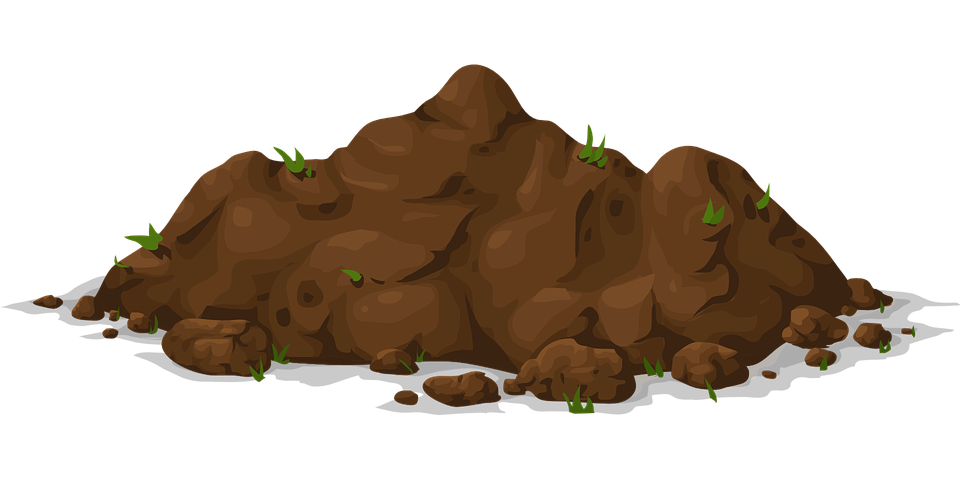
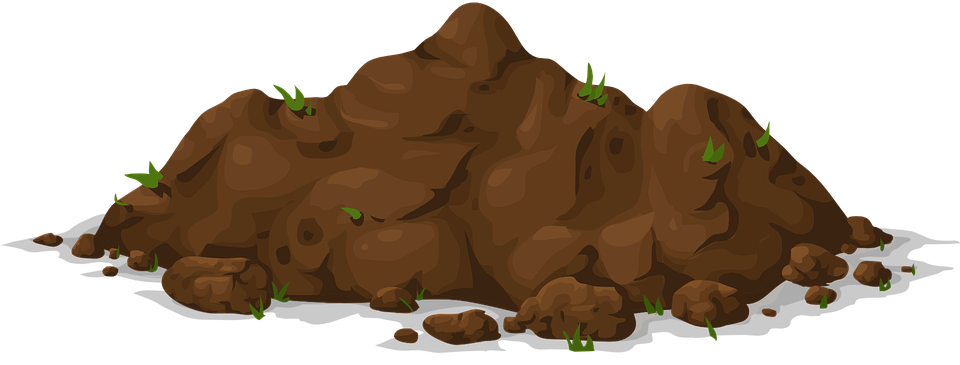
Remove unneeded blank space in tanah.png and finish play-condition

diff --git a/js/script.js b/js/script.js
@@ -7,17 +7,35 @@ if (!localStorage) {
 const popup = document.getElementById('popup');
 const dirts = document.querySelectorAll('.dirt');
 const moles = document.querySelectorAll('.mole');
+let difficulty = localStorage.getItem('difficulty');
 
-const setDifficulty = (difficulty) => {
-  const difficultyInfo = document.getElementById('difficulty');
-
+const setDifficulty = (diff) => {
+  difficulty = diff;
   localStorage.setItem('difficulty', difficulty);
-  difficultyInfo.textContent = difficulty;
+  return setDifficultyInfo();
+};
+
+const setDifficultyInfo = () => {
+  const difficultyInfo = document.getElementById('difficulty');
+  difficultyInfo.textContent = difficulty ?? 'easy';
 };
 
 const setScore = (score) => {
-  const difficulty = localStorage.getItem('difficulty');
-  localStorage.setItem(difficulty, score);
+  if (score > localStorage.getItem(difficulty)) {
+    localStorage.setItem(difficulty, score);
+    return setHighScoreInfo();
+  }
+};
+
+const setScoreInfo = (score) => {
+  const scoreInfo = document.getElementById('score');
+  scoreInfo.textContent = score;
+};
+
+const setHighScoreInfo = () => {
+  const highScoreInfo = document.getElementById('high-score');
+  const highScore = localStorage.getItem(difficulty) ?? 0;
+  highScoreInfo.textContent = highScore;
 };
 
 const setDelay = (delay) => {
@@ -50,36 +68,45 @@ const getRandomDirt = (prevDirt) => {
   if (dirts[randomNum].dataset.isPrevious) {
     return getRandomDirt(prevDirt);
   }
+
   if (prevDirt) prevDirt.dataset.isPrevious = '';
 
   return dirts[randomNum];
 };
 
-const getRandomTime = (min, max) =>
+const getRandomMoleSpeed = () => {
+  const speed = Math.random();
+  return speed > 0.1 ? speed : getRandomMoleSpeed();
+};
+
+const getRandomMoleAppearTime = (min, max) =>
   Math.floor(Math.random() * (max - min + 1)) + min;
-
-const getRandomMoleSpeed = (min, max) => getRandomTime(min, max);
-
-const getRandomMoleAppearTime = (min, max) => getRandomTime(min, max);
 
 const showMole = () => {
   const randomDirt = getRandomDirt(prevDirt);
-  const randomSpeed = getRandomMoleSpeed(0.5, 1);
-  const randomTime = getRandomMoleAppearTime(750, 1500);
+  const randomSpeed = getRandomMoleSpeed();
+  const randomTime = getRandomMoleAppearTime(1000, 1500);
   prevDirt = randomDirt;
 
-  randomDirt.style.transition = `top ${randomSpeed}s ease-in`;
+  randomDirt.firstElementChild.style.transition = `top ${randomSpeed}s ease-in`;
+  randomDirt.firstElementChild.style.pointerEvents = 'auto';
   randomDirt.dataset.isPrevious = 'yes';
   randomDirt.classList.add('mole-show-up');
-  console.log(randomDirt, randomSpeed, randomTime);
+
   setTimeout(() => {
     randomDirt.classList.remove('mole-show-up');
+    randomDirt.firstElementChild.style.pointerEvents = 'auto';
     if (isStarted) showMole();
   }, randomTime);
 };
 
-// First time
-if (!localStorage.getItem('difficulty')) {
+// First load
+setDifficultyInfo();
+setHighScoreInfo();
+setScoreInfo(0);
+
+// If difficulty not set (first time access)
+if (!difficulty) {
   const difficulties = document.querySelector('.difficulties');
   popup.classList.remove('d-none');
 
@@ -104,12 +131,28 @@ let prevDirt = null;
 
 startButton.addEventListener('click', async function () {
   isStarted = true;
+  score = 0;
+  setScoreInfo(score);
   await setDelay(250);
   startButton.classList.add('d-none');
   await startCountdown();
   setTimeout(() => {
     isStarted = false;
+    setScore(score);
     startButton.classList.remove('d-none');
   }, 15000);
   showMole();
 });
+
+for (const mole of moles) {
+  mole.addEventListener('click', function () {
+    if (isStarted) {
+      score++;
+      setScoreInfo(score);
+
+      this.style.transition = `top 0.1s ease-out`;
+      this.parentElement.classList.remove('mole-show-up');
+      this.style.pointerEvents = 'none';
+    }
+  });
+}

diff --git a/css/style.css b/css/style.css
@@ -198,27 +198,27 @@ ul > li {
 .dirt::after {
   content: '';
   display: block;
-  width: 16rem;
-  height: 15rem;
+  width: 100%;
+  height: 6rem;
   margin: 0 auto;
   background: url(../img/tanah.png) no-repeat bottom center / contain;
   position: relative;
-  bottom: -30px;
-  z-index: 2;
+  top: 66.66%;
 }
 
 .mole {
-  width: 100%;
-  height: 100%;
-  background: url(../img/tikus.png) no-repeat bottom center / 50%;
+  width: 50%;
+  height: 75%;
+  background: url(../img/tikus.png) no-repeat bottom center / cover;
+  border: 1px solid black;
   position: absolute;
-  top: 100px;
-  transition: top 1s;
-  z-index: 1;
+  top: 200px;
+  left: 50%;
+  transform: translateX(-50%);
 }
 
 .mole-show-up .mole {
-  top: -25px;
+  top: 45px;
 }
 
 @keyframes countdown {

diff --git a/index.html b/index.html
@@ -44,9 +44,9 @@
 
     <div id="information">
       <ul>
-        <li>Difficulty : <span id="difficulty">Medium</span></li>
-        <li>High Score : <span id="high-score">15</span></li>
-        <li>Score : <span id="score">6</span></li>
+        <li>Difficulty : <span id="difficulty"></span></li>
+        <li>High Score : <span id="high-score"></span></li>
+        <li>Score : <span id="score"></span></li>
       </ul>
     </div>
 
